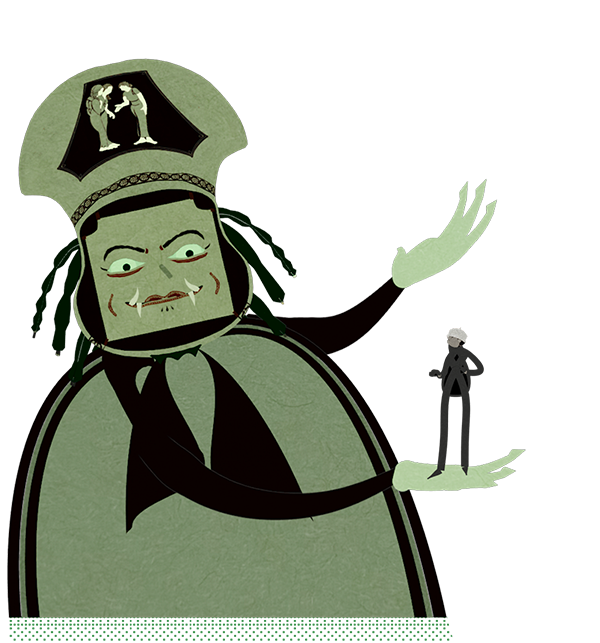
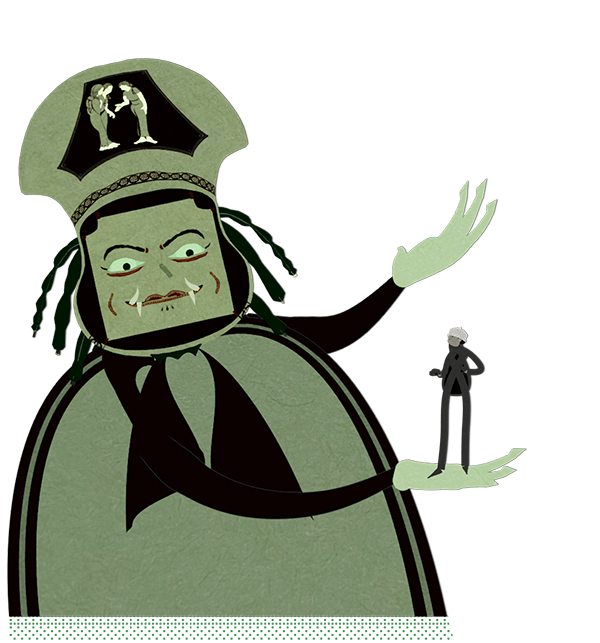
removed link to about page, put on main page instead

diff --git a/index.html b/index.html
@@ -79,8 +79,8 @@ layout: null
         <div class="misc">
       <div class="buttons">
         <div class="about">
-          <a class="button" href="/about">
-            <p>ABOUT</p>
+          <a class="button" href="/shop">
+            <p>SOUVENIRS!!</p>
           </a> 
         </div>
       </div>
@@ -93,5 +93,31 @@ layout: null
       </div>
     </div>
   </div>
+<div style="margin-top: 0px; max-width: 100%; margin: none; padding: none;">
+            <div class="section">
+                <div class="section-left" style="border: none;"></div>
+                <div class="section-middle" style="background-color: black;">
+                    <p style="font-size: 1em; color: white;">PAY NO ATTENTION!</p>
+                </div>
+                <div class="section-right" style="border: none;"></div>
+            </div>
+    <div class="content" style="background-image: url('assets/css/style_img/curtain_seamless.jpg'); border: 0px; background-size: 80%; background-repeat: repeat-x; background-color: black; width: 100%; border-width: 1em; border-style: double; max-width: 800px; margin: auto;">
+    <div style="display: flex; align-items: center; flex-wrap: wrap; justify-content: space-between; max-width: 90%;">
+    <div class='captioned-image' style="flex-basis: 30%; padding: 1%; background-color: black;border-width: 1px 0px 0px 0px; border-color: black; border-style: solid; flex-grow: 1;">
+      <img alt="katie tender" src='/img/about02.jpg' style='max-width:max-content;' >
+    </div>
+          <div style="flex-basis: 60%; flex-grow: 1;">
+            <div style="padding: 3%;  margin-right: 8%; border-width: 0px 0px 1px 0px; border-color: black; border-style: solid; color: white; background-color: black;">
+              <h1>{{ page.shortname }}</h1>
+                      <!-- <h1>{{ page.shortname }}</h1>
+                      {% if page.show-date == "T" %}
+                          <h4>{{ page.date | date_to_string }}</h4>
+                      {% endif %} -->
+                  <p style="font-size: 1em; padding-right: 3%;">I grew up in central Illinois. I graduated from Carnegie Mellon University with a BFA in Art and a minor in Animation and Special Effects. I worked for four years on the <em>Avatar</em> sequels previs team. I like to use my VFX skills to create colorful stories and do fortune telling. I live in LA. </p>
+            </div>
+          </div>
+        </div>
+    </div>
+</div>
 </div>
 {% include footer.html %}

diff --git a/_includes/embed-bugmuthur-button.html b/_includes/embed-bugmuthur-button.html
@@ -1,7 +1,7 @@
 <div class="container" style="max-width: 100%;">
-    <a href="/shop" style="text-decoration-color: black; text-decoration-style: double; font-size: 1.2em !important; top:50%;">
+    <!-- <a href="/shop" style="text-decoration-color: black; text-decoration-style: double; font-size: 1.2em !important; top:50%;">
         <button class="btn" style="font-size: 0.7em; font-family: Tourney, Helvetica, monospace; left: 60%; top: 15%">souvenirs</button>
-    </a>
+    </a> -->
     <img alt="sideshow-ad" src='/img/bugmuthur-button/bugmuthur-button.png'>
         <div class="about">
           <a class="button" href="sideshow.html#story" style="max-width: 80%; margin-left:0;margin-top: 0; font-size:  1.2em; text-align: center;">

diff --git a/_includes/navigation-bar.html b/_includes/navigation-bar.html
@@ -14,12 +14,12 @@
             <!-- Navigation links (hidden by default) -->
             <div id="myLinks">
                 <div style="height:1em"></div>
-                <a href="/" style="height: 2em;
-                line-height: 2em;">HOME</a>
                 <a href="/booking" style="height: 2em;
                 line-height: 2em;">FORTUNE TELLER</a>
                 <a href="/sideshow.html" style="height: 2em;
                 line-height: 2em;">ANIMATION</a>
+                <a href="/" style="height: 2em;
+                line-height: 2em;">HOME</a>
                 <!-- <a href="/skills" style="height: 2em;
                 line-height: 2em;">TECH</a> -->
                 <!-- <a href="/sideshow" style="height: 2em;
